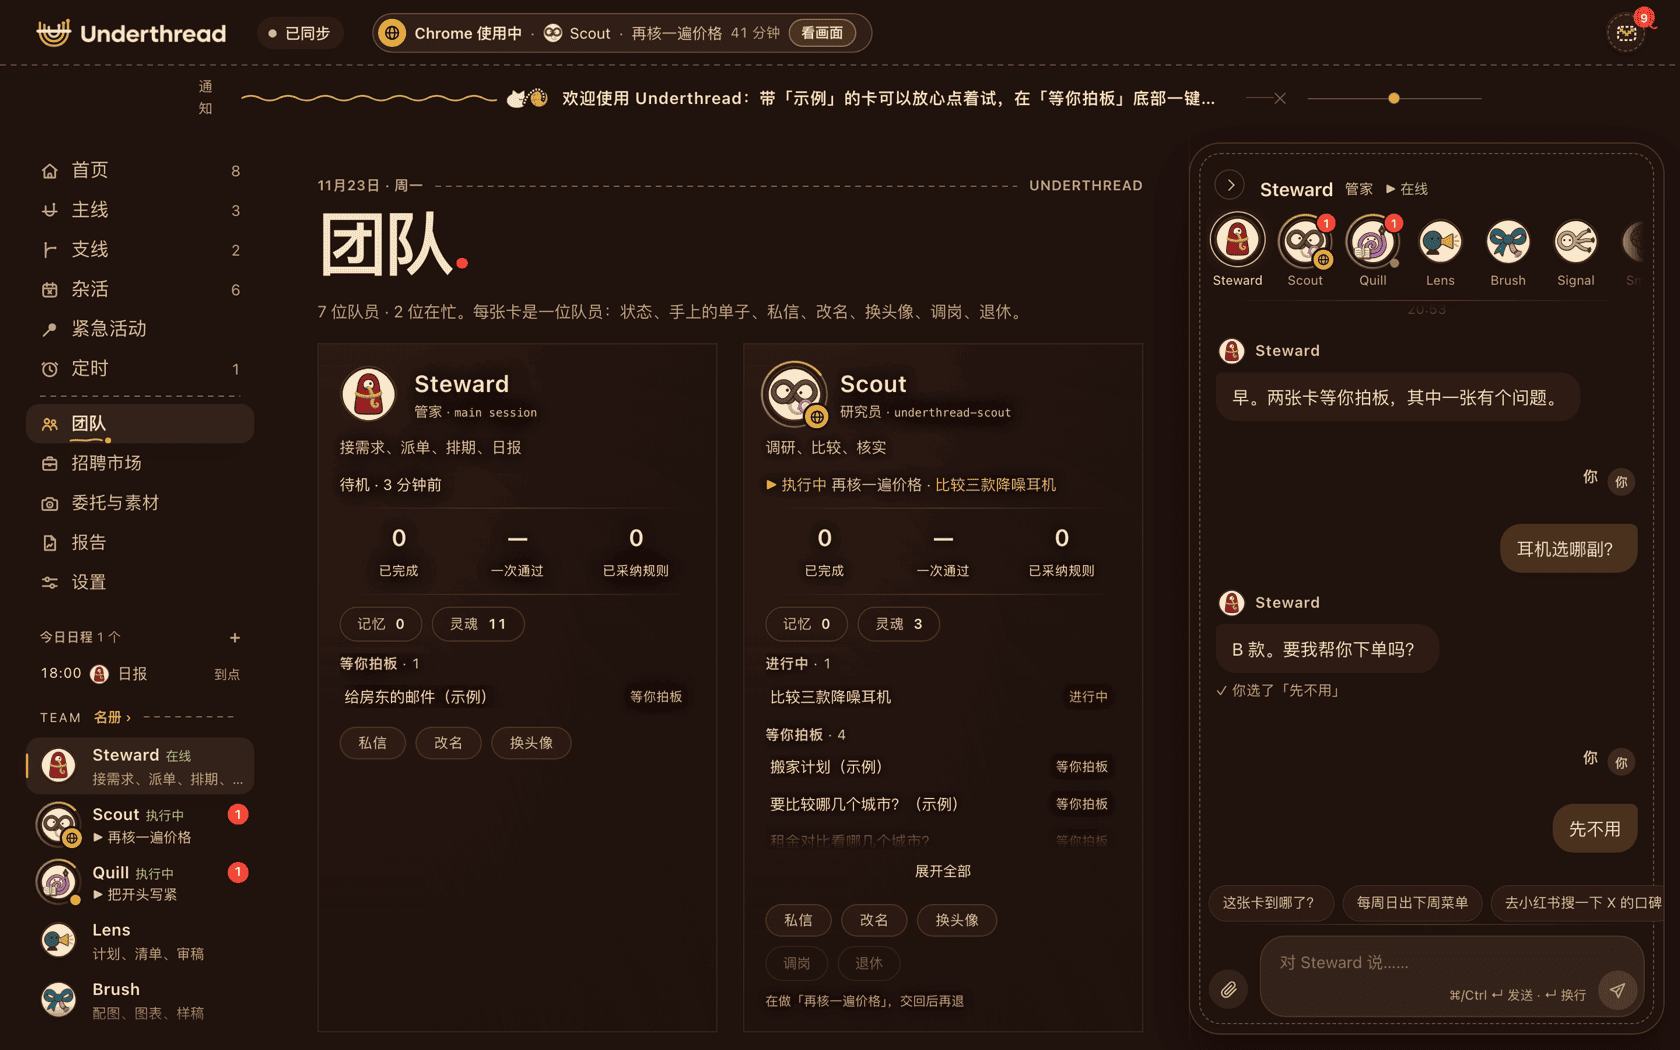
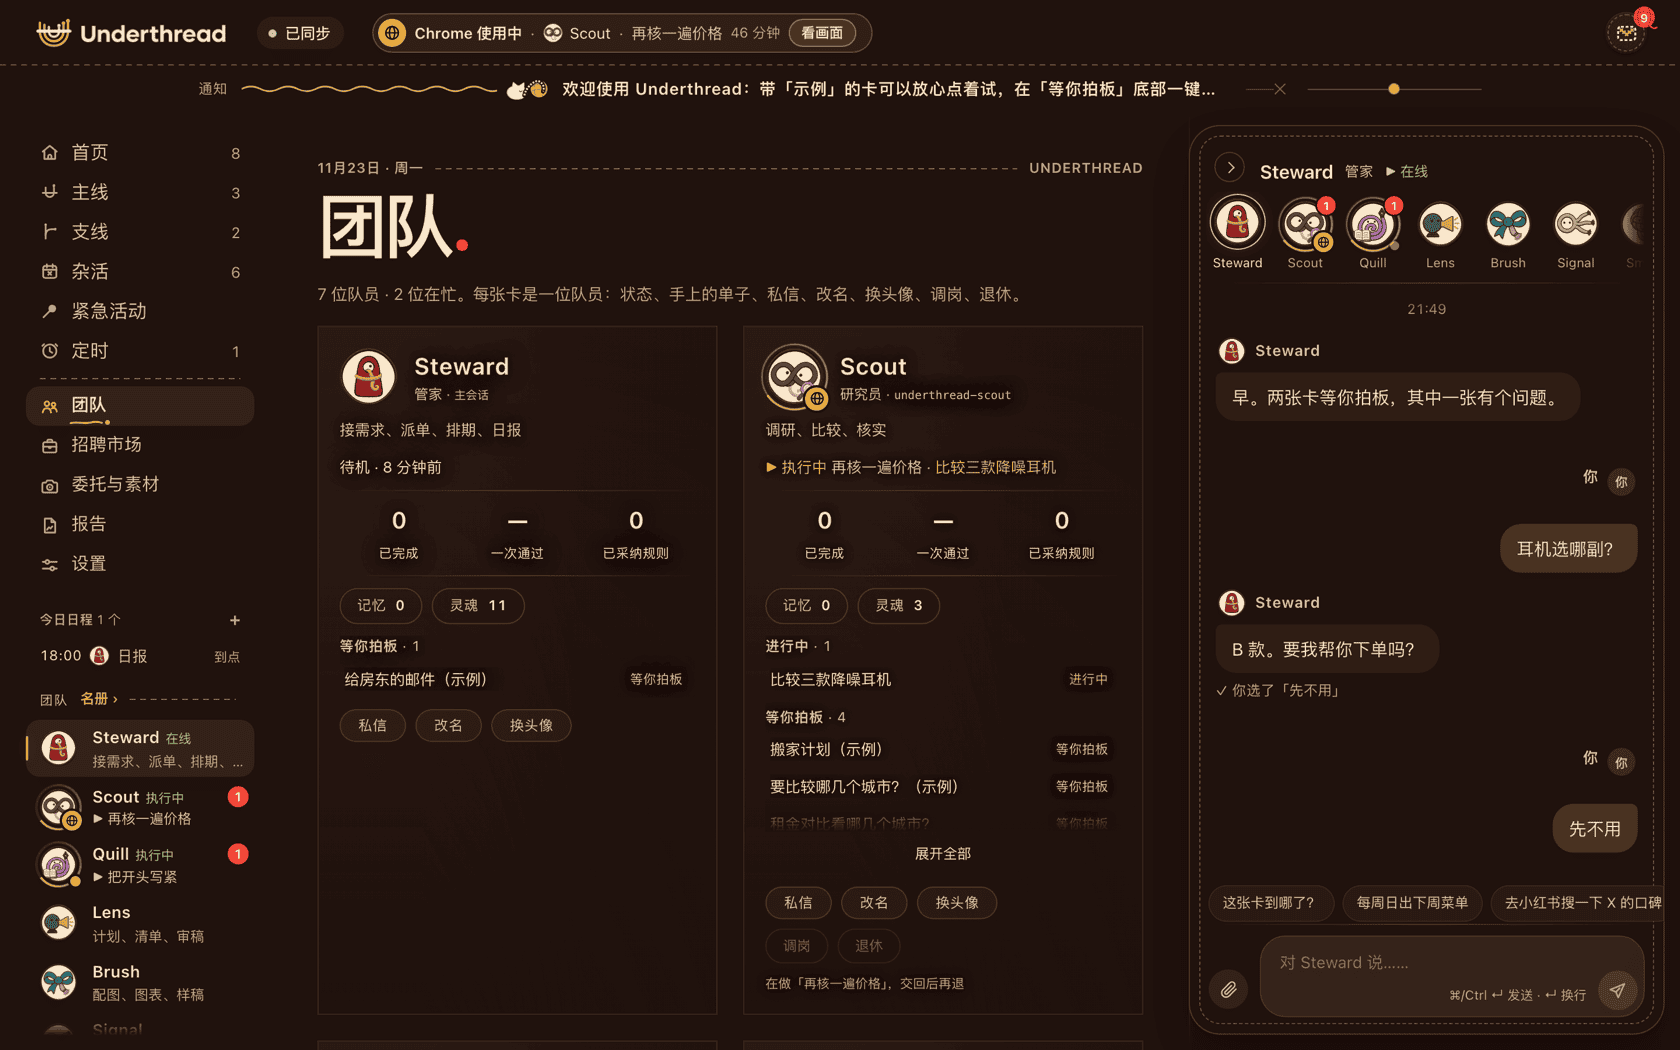
README: Hiring market screenshot (en + zh); screenshots re-shot after the language fixes
- docs/img/market-{en,zh}.png in "Make it your crew" / 「组建你自己的小队」.
- All en / zh screenshots re-shot on the fixture board (Stitch look) so the zh shots show
  团队 / 主会话 / 中 and an unbroken 通知 label.
- core.manifest.json regenerated.

diff --git a/README.md b/README.md
@@ -251,6 +251,8 @@ Underthread itself doesn't care what kind of work you do. The steward, cards, re
 
 5. **Content creators.** The Pipeline and Channels pages (a production line and per-platform previews for B站 / YouTube / 小红书) are off on a fresh install. They switch on by themselves with the `content-zh` preset or when `config.json` lists platforms, or by hand in Settings → Pipeline & Channels.
 
+<p align="center"><img src="docs/img/market-en.png" alt="The Hiring market: role templates in cards by category, each with a duty line, a voice to pick, two example requests and Interview / Hire buttons (example data)" width="840"></p>
+
 The **Team** page in the left rail is the roster: move a teammate to a new job (**Transfer**), retire them (**Retire**), rename them or pick their avatar. Rename and avatar choices are saved on the role's entry in `roster.json`, which updates never replace.
 
 Full guide, with every roster field and a worked example: [docs/custom-crew.md](docs/custom-crew.md).
